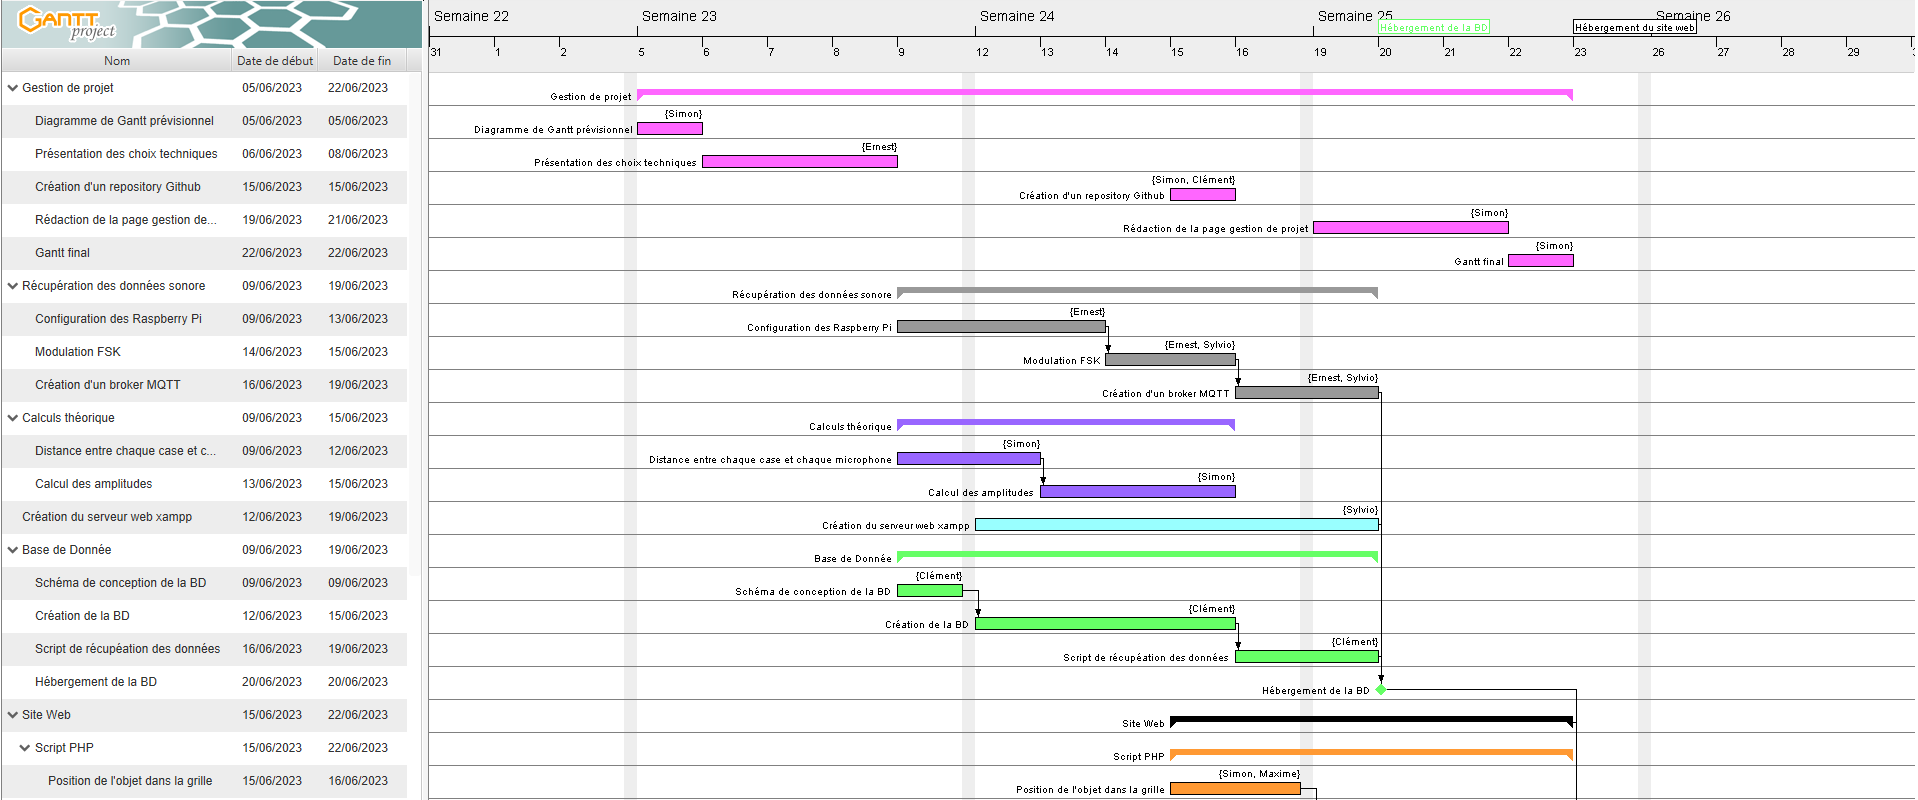
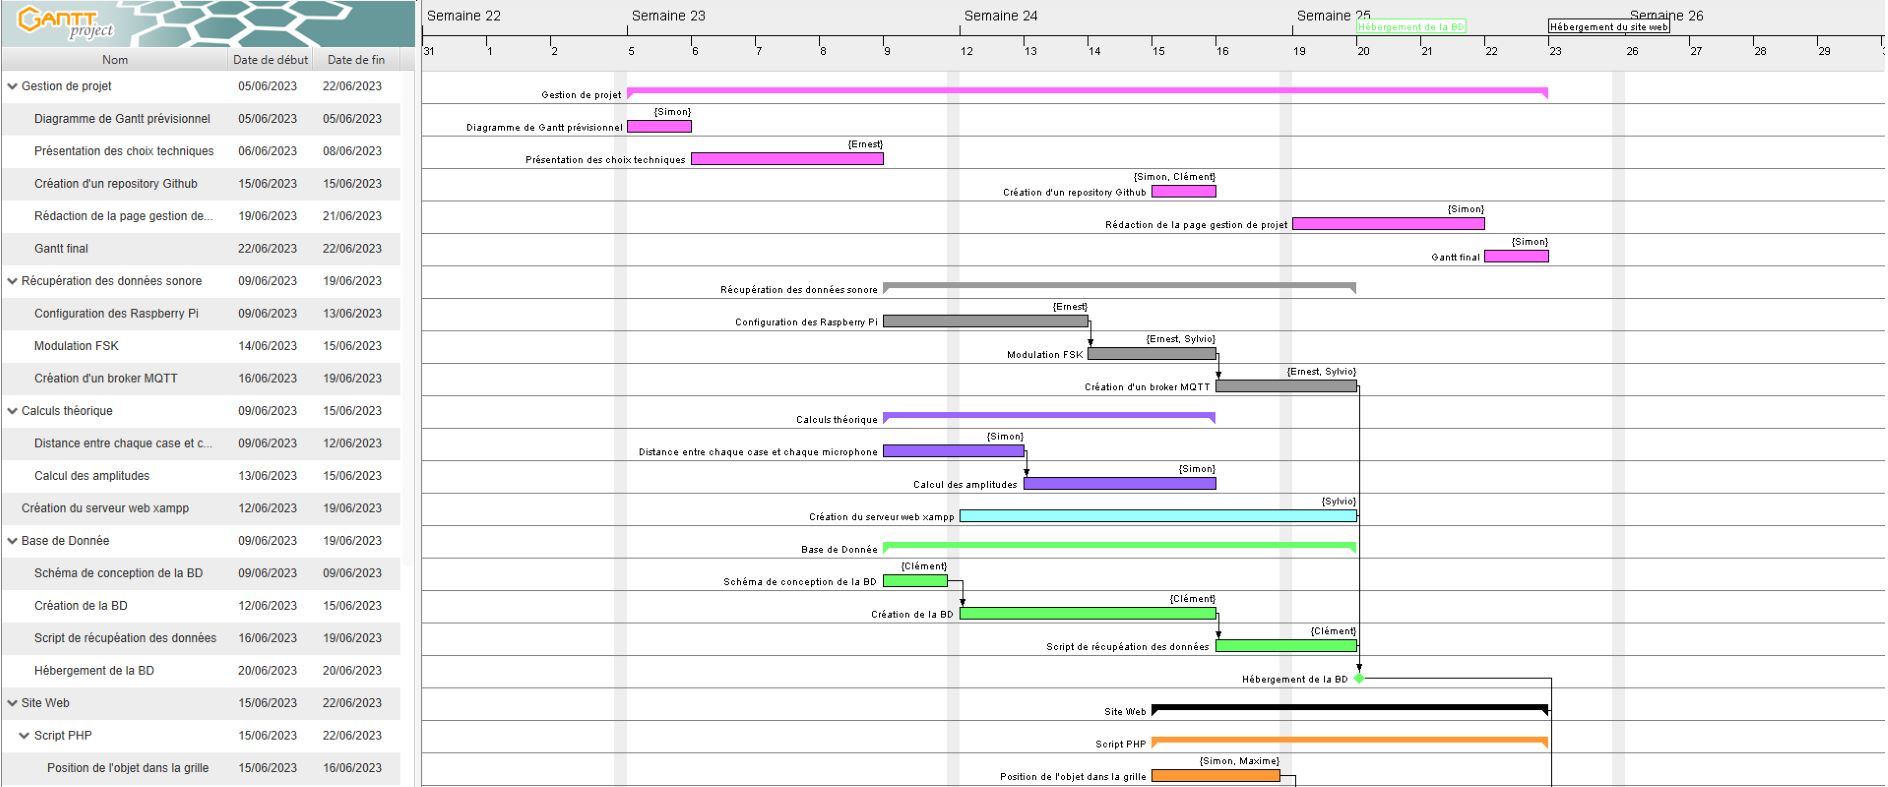
remise en place de gestion de projet

diff --git a/sitewebV2/gestion_de_projet.html b/sitewebV2/gestion_de_projet.html
@@ -4,7 +4,10 @@
 	<meta charset="UTF-8">
     <meta http-equiv="X-UA-Compatible" content="IE=edge">
     <meta name="viewport" content="width=device-width, initial-scale=1.0">
-    <link rel="stylesheet" href="styles/style_login.css">
+    <link rel="stylesheet" href="styles/index.css">
+	<link rel="stylesheet" href="styles/nav.css">
+	<link rel="stylesheet" href="styles/bas_de_page.css">
+
 	<title>Gestion du projet</title>
   <meta charset="utf-8">
  </head>
@@ -25,12 +28,132 @@
 		</nav>
   </header> 
   
-  <section>
+ <section id="intro">
+	<p>Bienvenue sur la page de gestion de projet ! Cette section regroupe toutes les informations essentielles relatives à notre projet, depuis sa planification jusqu'à son aboutissement. Vous trouverez ici un aperçu détaillé du GANTT final, qui offre une vision claire de l'évolution des différentes tâches et de leur interdépendance. De plus, nous avons inclus des captures d'écran des outils collaboratifs que nous avons utilisés tout au long du projet, afin de vous donner un aperçu concret de notre processus de travail. Chaque membre de notre équipe a également partagé une synthèse personnelle de son travail précis réalisé, mettant en évidence les réussites et les défis rencontrés. Nous avons identifié les problèmes auxquels nous avons été confrontés et proposé des solutions pour les résoudre efficacement. Enfin, vous trouverez une conclusion qui évalue le degré de satisfaction du cahier des charges. Nous espérons que cette page vous permettra de mieux comprendre notre projet et les étapes clés de sa réalisation.</p> 
+</section>   
+ <section id="intro">
+	<h2 id='gantt'><a href='#gantt'>Diagramme de Gantt prévisionnel</a></h2>
+	<p>Le diagramme de Gantt permet d'organiser un planning pour réaliser le projet petit à petit en planifiant des tâches à faire en un certain intervalle de temps. Voici notre diagramme de Gantt prévisionnel de notre projet réalisé sur le logiciel <a href='https://ganttproject.fr.softonic.com/telecharger' target='_blank'>GanttProject</a> :</p>
+	<img src='./img/gantt1.png' alt='Diagramme de Gantt'>
+		<img src='./img/gantt2.PNG' alt='Diagramme de Gantt'>
+</section>  
+<section id="intro">
+	<h2 id='perso'><a href='#perso'>Synthèse personnelle de chaque membre</a></h2> 
+</section>
+
+<section id="zero">
+	<div class="grid">
+		<div class="bloc">
+			<h3 id="Simon"><a href="#Simon">Simon CATHALA</a></h3>
+			<ul>
+				<li>&#8250; Création du Gantt prévisionnel</li>
+				<li>&#8250; Scripts</li>
+				<li>&#8250; </li>
+				<li>&#8250; </li>
+				<li>&#8250; </li>
+				<li>&#8250; </li>
+				<li>&#8250; Création du Gantt final</li>
+				<li>&#8250; </li>
+				<li>&#8250; </li>
+				<li>&#8250; </li>
+				<li>&#8250; </li>
+				<li>&#8250; </li>
+				<li>&#8250; </li>
+			</ul>
+		</div>
+		<div class="bloc">
+			<h3 id="Maxime"><a href="#Maxime">CALMELS Maxime</a></h3>
+			<ul>
+				<li>&#8250; se concentre sur le site web, de la création du site web en html et css à l'affichage des données en php en passant par la connexion à un compte administrateur avec des formulaires et l'ajout ou  la suppression de celle-ci en php.</li>
+				<li>&#8250; </li>
+				<li>&#8250; </li>
+				<li>&#8250; </li>
+				<li>&#8250; </li>
+				<li>&#8250; </li>
+				<li>&#8250; </li>
+				<li>&#8250; </li>
+		</div>
+		<div class="bloc">               
+			<h3 id="Clement"><a href="#Clement">Clément BARREDA</a></h3>
+			<ul>
+				<li>&#8250; Création de la base de données (schéma, conception des requêtes, implémentation)</li>
+				<li>&#8250; Création du script de récupération de données depuis le broker, dans un format compatible avec la base de données</li>
+				<li>&#8250; Hébergement de la base de données</li>
+				<li>&#8250; Hébergement du site</li>
+				</ul>
+		</div>
+		<div class="bloc">
+			<h3 id="Sylvio"><a href="#Sylvio">GASPAROTTO Sylvio</a></h3>
+			<ul>
+				<li>&#8250; s'occupe du Raspberry Pi à simuler </li>
+				<li>&#8250; </li>
+				<li>&#8250; </li>
+				<li>&#8250; </li>
+				<li>&#8250; </li>
+				<li>&#8250; </li>
+				<li>&#8250; </li>
+			</ul>
+		</div>
+		<div class="bloc">
+			<h3 id="Ernest"><a href="#Ernest">NSIMA Ernest</a></h3>
+			<ul>
+				<li>&#8250; vas s'occuper de la partie compte rendu </li>
+				<li>&#8250; </li>
+				<li>&#8250; </li>
+				<li>&#8250; </li>
+				<li>&#8250; </li>
+				<li>&#8250; </li>
+				<li>&#8250; </li>
+			</ul>
+		</div>
+	</div>
+</section>
+
+<section id="intro">
+	<h2 id='github'><a href='#github'>Outils collaboratifs utilisés</a></h2> 
+	<p>Parmi les nombreux outils collaboratifs que nous avons utilisés tout au long du projet, <a href='https://github.com/' target='_blank'>GitHub</a> a joué un rôle central dans notre gestion de projet. GitHub est une plateforme de développement logiciel basée sur le système de contrôle de version Git. Cet outil puissant nous a permis de collaborer efficacement en fournissant un environnement centralisé pour le partage, la gestion et la collaboration sur notre code source. Voici <a href='https://github.com/corentin-iut/sae23_blagnac/' target='_blank'>notre repository GitHub</a> pour ce projet :</p>
+	<img src='./img/github.PNG' alt='Repository GitHub'>
+	<p> Grâce à GitHub, nous avons pu créer un référentiel centralisé pour notre code source, offrant ainsi un espace commun où chaque membre de l'équipe pouvait partager et travailler sur les fichiers du projet. Cette approche nous a permis de travailler simultanément sur les mêmes fichiers, tout en évitant les conflits de fusion. La fonction de suivi des problèmes de GitHub nous a été particulièrement utile, nous permettant de signaler et de suivre les problèmes rencontrés tout au long du projet, et de les résoudre de manière collaborative. De plus, GitHub a facilité la revue de code en permettant des commentaires spécifiques sur les modifications apportées, ce qui a grandement amélioré notre processus d'examen et de validation. En résumé, grâce à GitHub, nous avons pu bénéficier d'une collaboration fluide, d'une gestion efficace des problèmes et d'un suivi précis des modifications, contribuant ainsi à la réussite globale de notre projet.</p>
+</section>
+ <section id="intro">
+	<h2 id='bd'><a href='#bd'>Schéma de la Base de donnée</a></h2> 
+		<p>La base de donnée (BD) utilisé pour cette SAE est une <strong> base SQL </strong> avec trois table différentes, ses tables sont : </p>
+		&ensp;
+		<p> - Une table <strong>adiministration</strong> qui permet la gestion du ou des administrateur(s) avec une ligne login et une ligne mdp.   </p>
+		<p> - Une table <strong>mesures</strong> dans laquelle on stocke toutes les amplitudes des 3 capteurs et la date et l'heure, avec cela ona à ajouter un id qui est une <strong>clé primaire</strong> </p>
+		<p> - Une table <strong>resultat</strong> dans laquelle on stocke la case calculé pour les 3 capteurs avec un id qui est une <strong>clé étrangère</strong> et qui permet de relié les deux tables mesures et résultat. </p>
+ 	<br>
+	<h3 > Image de la Base de donnée </h3>
+	<p> Voici ci-dessous l'image de la Base de donnée dans <strong>PhpMyAdmin</strong> </p>
+		<img class="imagebd" alt="SchemaBD" src="img/SchemaBD.png">
+ </section>
+ 
+ <section id="intro">
+	<h2 id='fina'><a href='#fina'>Diagramme de Gantt final</a></h2> 
+		<p>Voici ci-dessous le diagramme de Gantt final de notre projet :</p>
+ <img class="image" alt="Diagramme de GANTT" src="img/ .png">
+ <img class="image" alt="Diagramme de GANTT" src="img/ .png">
+ <p>Notre GANTT final diffère légèrement de notre GANTT prévisionnel initial. En effet, au cours du projet, nous avons dû faire face à des circonstances imprévues qui ont nécessité une répartition différente des tâches au sein du groupe. De plus, quelques problèmes sont survenus, ajoutant des défis supplémentaires à notre planning. Malgré ces ajustements, nous sommes fiers de mentionner que nous avons réussi à respecter dans l'ensemble notre GANTT initial. Nous avons travaillé avec diligence et discipline, que ce soit en autonomie chez nous ou lors de nos séances de travail à l'IUT durant les séances de SAE.</p>
+ </section>
+ 
+ <section id="intro">
+	<h2 id='prob'><a href='#prob'>Problèmes rencontrés</a></h2> 
+
 
  </section>
  
+ <section id="intro">
+	<h2 id='sol'><a href='#sol'>Solutions apportées</a></h2> 
+
+
+ </section>
+ <section id="intro">
+	<h2 id='conclu'><a href='#conclu'>Conclusion sur le degré de satisfaction du cahier des charges</a></h2> 
+
+
+ </section>
  
- <footer>
+ <footer class="mention">
     <ul>
 	  <li>IUT de Blagnac</li>
 	  <li>Département Réseaux et Télécommunications</li>
@@ -40,4 +163,3 @@
  
 </body>
 </html>
-
